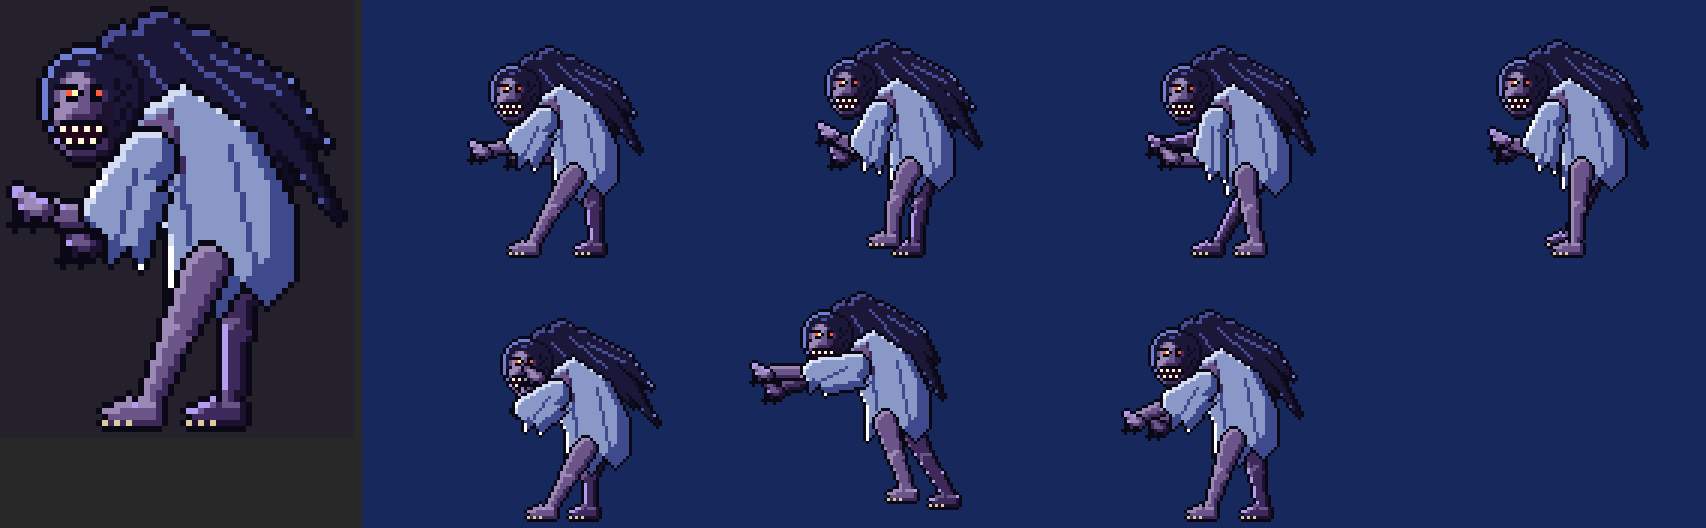
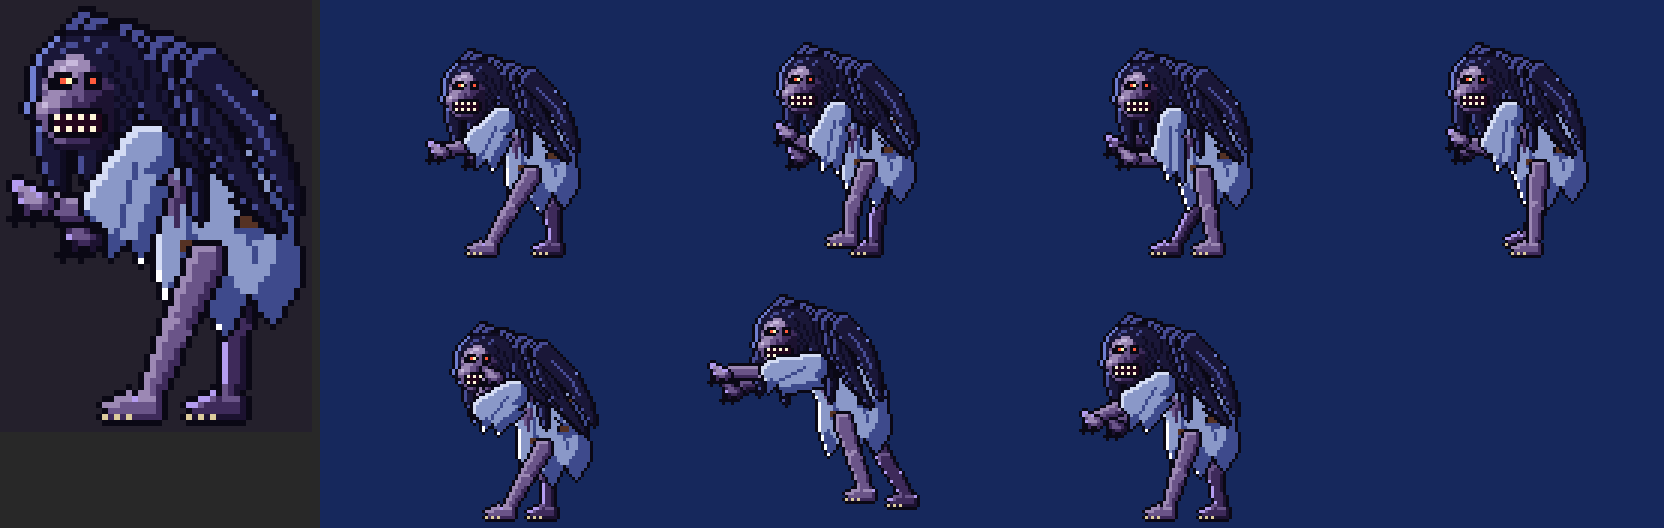
Yamauba und Shikome verfeinert: Gesichter mit fünf Hauttönen, einzelne Haarsträhnen, Stofftexturen (Kasuri, Flicken, Moderflecken, Risse)
Claude-Session: https://claude.ai/code/session_01KhgxT7a5tRTGeQVFkHSAcV

diff --git a/art_src/fable/enemies_6/yamauba.py b/art_src/fable/enemies_6/yamauba.py
@@ -9,35 +9,42 @@ common.D = os.path.dirname(os.path.abspath(__file__)) + '/'
 
 CW, CH = 104, 88
 OX, OY = 30, 8                         # lokale Grundlinie y = 76
-col('o0', '#3a2228'); col('o1', '#6e4a46'); col('o2', '#a07a66'); col('o3', '#c8a68a')   # alte, fahle Haut
+col('j0', '#1e1c34'); col('j1', '#3c3c5a'); col('j2', '#66688a')
+col('o0', '#3a2228'); col('o1', '#6e4a46'); col('o2', '#a07a66'); col('o3', '#c8a68a'); col('o4', '#e6caa6')   # alte, fahle Haut
 add_rim('o0 o1 o2', 'xs')
 SKIN = ('o1', 'o2', 'o3')
 SKINF = ('o0', 'o1', 'o2')
-HAIR = ('v1', 'v2', 'v3')
+HAIR = ('v0', 'v1', 'v2')
 KIM = ('s1', 's2', 's3')
 KIMF = ('s0', 's1', 's2')
 
-LEG = dict(zip('abcdKeYqWwvxV', ['o0', 'o1', 'o2', 'o3', 'K', 'e1', 'y3', 'q', 'b3', 'v2', 'v1', 'v3', 'v0']))
+LEG = dict(zip('abcdeKrYqWwvxu', ['o0', 'o1', 'o2', 'o3', 'o4', 'K', 'e1', 'y3', 'q', 'b3', 'v2', 'v1', 'v3', 'v0']))
+# Dreiviertelansicht nach links: Profilkante links (Stirn, Hakennase, spitzes Kinn), tiefliegende glühende Augen
+# unter buschigen weißen Brauen, eingefallene Wange, breites Grinsen mit wenigen Zähnen, wildes Haar
 HEAD = """
-.......xxxwwwww.....
-.....xxwwwwwwvwww...
-....xwwwwwvvwwwwvw..
-...xwwwwcddbwwwwwvw.
-..xwwwcdddddbwwvwwv.
-..wwwcddddccbbwwvwwv
-..wwvKKKdcKKKbwwvwwv
-..wvdeYKccceKbawvwwv
-..wvdKKccbbKbaawvwwv
-..KdddcccbbbaawwvwwV
-.Kddddccbbbbaawvwwvv
-Kdddccbbbbbaawwvwwv.
-.KKccbbbabbaa.wvwwv.
-...cKKKKKbaa..wvwv..
-...KWqWqKbaa..wwvv..
-...cKqqKbaa...wvw...
-....cbbbba....vv....
-.....cbba......v....
-......ba............
+...........xx.xwwu.w......
+.......xx.xwwxwvwwuwwv....
+.....xxwwxwwvvwuwwvwvwwu..
+....xwvwxwuvvwwxwvuwvvwwv.
+...xwvxwwvdwwuvxwwvwwvwuwv
+..xwuxwddddvwwuwwuvwwvuwwv
+..wxwvddeedvcwwvwuwvwwvvwv
+..wwvdeedddccbwuwvwwuvwwvu
+..wxwxxxxdcxxxxbwwvwwwvwwv
+..wwKKKxccKKKKbbvwwwvwwvwu
+..wdKrYKcbKrYKbavwwvwwvwwu
+..ddaKKbcbaKKbbaavwwvwvwu.
+.Kdedccbcbbbbbbaavwvwwvwu.
+Kddddcbbcbbaabaawvwwvwwu..
+Kdeddccbbbbaaaaawvwvwwvu..
+.KKddcbbabbaaaavwwvwwvu...
+..KcbbaaKKbbaauwvwvwu.....
+..cKKKKKKKKbaauvwvwu......
+..cKWqqWqWKbaa.uvwu.......
+...KqqqqqqKba...uu........
+...cKKKKKKbaa.............
+....ccbbbaa...............
+.....bbaa.................
 """
 CLAW = """
 .cc.
@@ -86,15 +93,6 @@ def draw(**kw):
         return P(pt[0] + lean, pt[1] + bob)
 
     hs = S['hair']
-    # ---- Haarmähne hinten: fällt über den gebeugten Rücken bis zur Hüfte
-    p = C()
-    mane = PG([B((30, 10)), B((44, 8)), B((52, 16)), B((58 + hs, 30)), B((60 + hs, 44)), B((56 + hs, 52)),
-               B((52, 46)), B((50 + hs, 54)), B((46, 44)), B((44, 30)), B((36, 22))])
-    p.form(mane, HAIR, sd=3, hl=1)
-    for (a_, b_) in (((40, 12), (54 + hs, 40)), ((46, 14), (57 + hs, 46)), ((38, 18), (49 + hs, 48))):
-        p.line([B(a_), B(b_)], 'v1', only=mane)
-    p.line([B((42, 11)), B((52 + hs, 30))], 'v3', only=mane)
-    c.stamp(p, 'K')
     # ---- ferner Arm (hängt nach vorn, Kralle)
     fs, fe, fh = B(S['fsh']), B(S['fel']), B(S['fhd'])
     p = C()
@@ -125,24 +123,64 @@ def draw(**kw):
     p.form(obi, ('w0', 'w1', 'w2'), sd=1, hl=1)                                  # Strick als Gürtel
     for k in range(5):
         p.pxs([B((32 + k * 4, 46 - k * 0.8))], 'w0')
-    for (x, y) in ((44, 54), (36, 57)):                                           # Risse im Stoff
-        p.line([B((x, y)), B((x + 2, y + 3)), B((x + 1, y + 5))], 's0', only=body)
+    # Kasuri-Muster: kleine verblasste Kreuzchen im Stoff, nicht im Gürtel
+    for (x, y) in ((34, 36), (42, 34), (48, 46), (38, 52), (46, 56), (31, 56), (52, 54), (40, 42)):
+        q = B((x, y))
+        cross = (R(q[0] - 1, q[1], q[0] + 1, q[1]) | R(q[0], q[1] - 1, q[0], q[1] + 1)) & body & ~obi
+        p.fill(cross, 's1')
+    # Flicken aus anderem Stoff (verblasstes Indigo) mit grober Naht
+    patch = PG([B((44, 58)), B((50, 57)), B((51, 62)), B((45, 63))]) & body
+    p.form(patch, ('s0', 's1', 's2'), sd=1, hl=0)
+    for k in range(3):
+        p.pxs([B((45 + k * 2, 57.5)), B((51, 59 + k * 1.2))], 'c1')
+    # zerfetzter Saum: hängende Stoffstreifen
+    for (x, ln) in ((28, 5), (35, 4), (44, 6), (53, 4)):
+        q = B((x, 63))
+        p.form(tri(q, 95, ln, 3.2) & ~body, KIMF, sd=0, hl=1)
     # Kragen: Haut im Ausschnitt, weißes Untergewand
     neck = PG([B((32, 26)), B((38, 25)), B((36, 32)), B((33, 33))]) & body
     p.form(neck, SKIN, sd=1, hl=0)
     p.line([B((37, 25)), B((34, 34))], 'v2', only=body)
     c.stamp(p, 'K')
+    # ---- Haarmähne hinten: einzelne verfilzte Strähnen, jede eigene Form, fallen über den Rücken bis zur Hüfte
+    import random as _r
+    rg = _r.Random(11)
+    locks = []
+    for i in range(11):                                   # verfilzte, wellige Strähnen vom Hinterkopf über den Rücken
+        t = i / 10
+        root = (30 + t * 18, 9 + t * 12)
+        ln = 24 + rg.uniform(0, 14) - t * 8
+        ang = math.radians(86 - t * 30 + rg.uniform(-6, 6))
+        wob = rg.choice((-1, 1)) * rg.uniform(2, 4)
+        pts = []
+        for k in range(4):
+            f = k / 3
+            px_ = root[0] + math.cos(ang) * ln * f + math.sin(f * math.pi * 1.5) * wob + hs * f
+            py_ = root[1] + math.sin(ang) * ln * f
+            pts.append((px_, py_))
+        locks.append((pts, 3.6 - (i % 3) * 0.4))
+    order = sorted(range(len(locks)), key=lambda i: -locks[i][0][0][0])   # hintere Strähnen zuerst
+    for i in order:
+        pts, r_ = locks[i]
+        Q = [B(q) for q in pts]
+        p = C()
+        lock = L(*Q[0], r_, *Q[1], r_ * 0.9) | L(*Q[1], r_ * 0.9, *Q[2], r_ * 0.6) | L(*Q[2], r_ * 0.6, *Q[3], 0.7)
+        p.form(lock, HAIR, sd=1, hl=1)
+        p.line([lerp(Q[0], Q[1], 0.3), Q[1], lerp(Q[1], Q[2], 0.6)], 'v2' if i % 2 else 'v0', only=erode(lock, 1))
+        c.stamp(p, 'K')
     # ---- Kopf: weit nach vorn gereckt
     p = C()
-    p.grid(*B((14, 10)), HEAD, LEG)
+    p.grid(*B((10, 6)), HEAD, LEG)
     c.stamp(p, 'K', skip=('v1', 'v2', 'v3'))
     # ---- Messerarm vorn
     ks, ke, kh = B(S['ksh']), B(S['kel']), B(S['khd'])
     knife(c, kh, S['kang'])
     p = C()
-    sleeve = L(*ks, 4.6, *ke, 4.0)
+    sleeve = L(*ks, 4.6, *ke, 4.0) | PG([lerp(ks, ke, 0.2), (ke[0] + 1, ke[1] + 2), (ke[0] + 3, ke[1] + 9), (ke[0] + 6, ke[1] + 6),
+                                          (ke[0] + 8, ke[1] + 10), (ks[0] + 5, ks[1] + 7)])
     p.form(sleeve, KIM, sd=2, hl=1)
     p.line([(ks[0] - 1, ks[1] + 2), (ke[0] + 1, ke[1] + 1)], 's1', only=sleeve)
+    p.line([lerp(ks, ke, 0.5), (ke[0] + 5, ke[1] + 8)], 's1', only=sleeve)
     c.stamp(p, 'K')
     p = C()
     p.form(L(*ke, 2.4, *kh, 2.0), SKIN, sd=1, hl=1)                              # dürrer Unterarm

diff --git a/art_src/fable/enemies_6/shikome.py b/art_src/fable/enemies_6/shikome.py
@@ -9,7 +9,7 @@ common.D = os.path.dirname(os.path.abspath(__file__)) + '/'
 
 CW, CH = 112, 88
 OX, OY = 34, 8                          # lokale Grundlinie y = 76
-col('d0', '#1c1230'); col('d1', '#3e2a5a'); col('d2', '#6a5488'); col('d3', '#9c88b4')   # Leichenhaut
+col('d0', '#1c1230'); col('d1', '#3e2a5a'); col('d2', '#6a5488'); col('d3', '#9c88b4'); col('d4', '#c8b8dc')   # Leichenhaut
 add_rim('d0 d1 d2', 'xu')
 SKIN = ('d1', 'd2', 'd3')
 SKINF = ('d0', 'd1', 'd2')
@@ -17,27 +17,29 @@ ROBE = ('v0', 'v1', 'v2')               # schmutzig-weißes Totengewand
 HAIR = ('h0', 'hb', 'h2')
 col('hb', '#1a1738')
 
-LEG = dict(zip('abcdKeYqWmno', ['d0', 'd1', 'd2', 'd3', 'K', 'e1', 'y3', 'q', 'b3', 'h0', 'hb', 'h2']))
+LEG = dict(zip('abcdeKrYqWmnoz', ['d0', 'd1', 'd2', 'd3', 'd4', 'K', 'e1', 'y3', 'q', 'b3', 'h0', 'hb', 'h2', 'v1']))
+# hohle Wangen, tiefe Augenhöhlen mit rotem Glühen, breiter Kiefer voller spitzer Zähne, nasse Strähnen übers Gesicht
 HEAD = """
-......mmmmmmm.....
-....mmnnnnonnmm...
-...mnnnoonnnnnnm..
-..mnnnnnnnnnnnnnm.
-..mnncddbnnnnnnnm.
-.mnncddddbnnnmnnnm
-.mnmKKKdcKKnnmnmnm
-.mncdeYKcKebnnmnnm
-.mncdKKccKKbnmnnnm
-.mnKdddccbbaannmnm
-.mKdddcccbbaanmnm.
-.mKddcbbbbaaanmnm.
-..mcKKKKKKKaamnm..
-..mKWqWqWqWKaanm..
-...KqqqqqqqKaam...
-...cKWqWqWKbam....
-....cKKKKKbbam....
-.....cbbbbaam.....
-......aaaa........
+.......mmmmmmmmm.....
+.....mmnnnonnnnnmm...
+....mnnoonnnnonnnnm..
+...mnnonnnnnonnnnnnm.
+..mnnnndddnnnnmnnnnm.
+..mnnddeeddnnnnmnnnnm
+.mnmddeddddbnnnmnmnnm
+.mnmdKKKdcKKKnmnnmnnm
+.mncKKrYKcKrKbnmnnmnm
+.mndKKKKccKKKbbnmnmnm
+.mncdddcccbbbaanmnnm.
+.mKdddccbcbbaaamnmnm.
+mKdeddccbbbaaaanmnm..
+mKddccKKKKKKKaamnm...
+.mccKWqWqWqWqKamnm...
+..mcKqqqqqqqqKamm....
+..mcKWqWqWqWqKam.....
+...mcKKKKKKKKam......
+....mccbbbbaaam......
+.....maaaaaaam.......
 """
 CLAW = """
 cc.....
@@ -70,7 +72,7 @@ DEF = dict(bob=0, lean=0, ff=40, nf=26, flift=0, nlift=0,
 def leg(c, hip, foot, ramp, lift):
     knee = ik(hip, foot, 12, 12, side=1)                     # Knie zeigt nach vorn (links)
     p = C()
-    th = L(*hip, 3.6, *knee, 2.6)
+    th = L(*hip, 2.9, *knee, 2.3)
     sh_ = L(*knee, 2.4, *foot, 1.8)
     p.form(th | sh_, ramp, sd=1, hl=1)
     p.form(E(knee[0], knee[1], 2.4, 2.2), ramp, sd=0, hl=1)
@@ -107,35 +109,47 @@ def draw(**kw):
     leg(c, B((42, 48)), P(S['ff'], 74 - S['flift']), SKINF, S['flift'])
     # ---- Strähnenhaar hinten: lang, nass, über den Rücken
     p = C()
-    hair = E(*B((28, 18)), 10, 8)
-    strands = [((22, 14), (40 + hs, 40), 4.0), ((28, 12), (50 + hs, 36), 4.4), ((34, 14), (56 + hs, 30), 3.6),
-               ((30, 16), (46 + hs, 46), 3.4), ((36, 18), (58 + hs, 42), 3.0), ((26, 18), (34 + hs, 44), 3.0)]
-    for (a_, b_, r_) in strands:                                          # einzelne nasse Strähnen mit Spitzen
-        a2, b2 = B(a_), B(b_)
-        m_ = lerp(a2, b2, 0.55)
-        m_ = (m_[0] + 2, m_[1] - 2)
-        hair |= L(*a2, r_, *m_, r_ * 0.75) | L(*m_, r_ * 0.75, *b2, 0.6)
-    p.form(hair, HAIR, sd=2, hl=1)
-    for (a_, b_, r_) in strands[:3]:
-        p.line([B((a_[0] + 3, a_[1] + 1)), B(((a_[0] + b_[0]) / 2 + 3, (a_[1] + b_[1]) / 2 - 1))], 'h2', only=hair)
+    p = C()
     c.stamp(p, 'K')
     # ---- Totengewand: Oberkörper weit vorgebeugt, zerrissene Fetzen
     p = C()
-    torso = PG([B((22, 26)), B((32, 20)), B((44, 28)), B((50, 40)), B((50, 52)), B((46, 56)), B((42, 52)),
-                B((38, 58)), B((34, 52)), B((30, 56)), B((30, 44)), B((24, 34))])
+    torso = PG([B((22, 26)), B((32, 20)), B((44, 28)), B((50, 40)), B((51, 54)), B((47, 60)), B((43, 55)),
+                B((39, 62)), B((35, 56)), B((31, 61)), B((28, 52)), B((28, 44)), B((24, 34))])
     p.form(torso, ROBE, sd=4, hl=1)
     for (a_, b_) in (((30, 26), (34, 50)), ((40, 30), (44, 50))):
         p.line([B(a_), B(b_)], 'v0', only=torso)
     p.line([B((24, 27)), B((33, 40))], 'v0', only=torso)                     # Kragen links über rechts (Totengewand)
+    for (x, y, rx, ry) in ((44, 44, 3.4, 2.2), (34, 48, 2.6, 2.0), (46, 34, 2.2, 1.6)):     # Erd- und Moderflecken
+        p.fill(E(*B((x, y)), rx, ry) & torso, 'v0')
+        p.fill(E(*B((x - 1, y - 0.5)), rx * 0.5, ry * 0.5) & torso, 's1')
+    for (x, y) in ((40, 40), (36, 30)):                                          # Risse
+        p.line([B((x, y)), B((x + 2, y + 2)), B((x + 1, y + 4))], 'K', only=torso)
+    p.form(PG([B((26, 34)), B((32, 37)), B((31, 44))]) & torso, SKIN, sd=1, hl=0)   # Haut durch den Riss
+    p.pxs([B((28, 37)), B((29, 39))], 'd0')
     rib = PG([B((24, 27)), B((30, 24)), B((32, 34))]) & torso
     p.form(rib, SKIN, sd=1, hl=0)                                             # eingefallene Brust im Ausschnitt
     p.line([B((26, 29)), B((29, 28))], 'd0'); p.line([B((27, 31)), B((30, 30))], 'd0')
     c.stamp(p, 'K')
+    import random as _r
+    rg = _r.Random(5)
+    for i in range(10):
+        t = i / 9
+        root = (16 + t * 20, 12 + t * 6)
+        ln = 22 + rg.uniform(0, 12) - t * 4
+        ang = math.radians(100 - t * 40 + rg.uniform(-8, 8))
+        wob = rg.choice((-1, 1)) * rg.uniform(1.5, 3.5)
+        Q = [B((root[0] + math.cos(ang) * ln * f + math.sin(f * 4) * wob + hs * f, root[1] + math.sin(ang) * ln * f)) for f in (0, 0.35, 0.7, 1)]
+        q = C()
+        r_ = 3.4 - (i % 3) * 0.4
+        lock = L(*Q[0], r_, *Q[1], r_ * 0.9) | L(*Q[1], r_ * 0.9, *Q[2], r_ * 0.6) | L(*Q[2], r_ * 0.6, *Q[3], 0.7)
+        q.form(lock, HAIR, sd=1, hl=1)
+        q.line([lerp(Q[0], Q[1], 0.3), Q[1], lerp(Q[1], Q[2], 0.6)], 'h2' if i % 2 else 'h0', only=erode(lock, 1))
+        c.stamp(q, 'K')
     # ---- nahes Bein (Laufschritt)
     leg(c, B((36, 50)), P(S['nf'], 74 - S['nlift']), SKIN, S['nlift'])
     # ---- Kopf weit vorn, tief gesenkt
     p = C()
-    p.grid(*B((8, 14)), HEAD, LEG)
+    p.grid(*B((6, 12)), HEAD, LEG)
     c.stamp(p, 'K', skip=('h0', 'hb', 'h2'))
     # ---- naher Arm mit Klaue voran, weiter zerrissener Ärmel
     arm(c, B((26, 32)), B(S['nhd']), SKIN, LEG)
